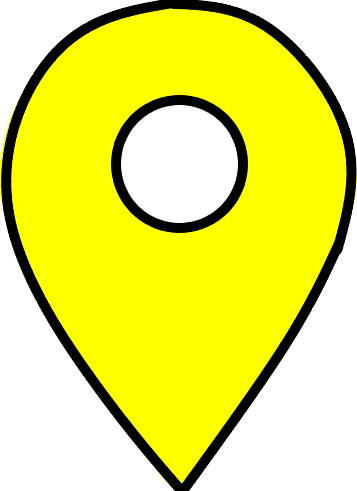
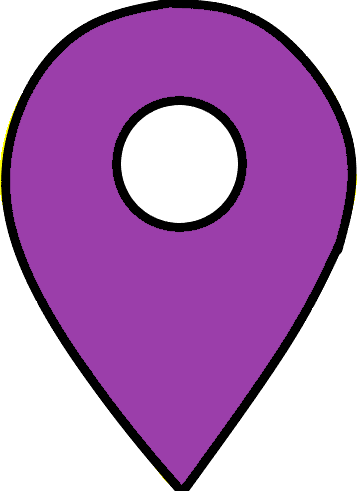
#161 Fixed pins on map

diff --git a/src/front/client/src/app/components/map-component/map-component.component.html b/src/front/client/src/app/components/map-component/map-component.component.html
@@ -34,9 +34,9 @@
     <div *ngIf="selectedLocation != null">
       <div id="location-header">
         <h3>{{selectedLocation.address}} {{selectedLocation.addressNumber}}<br>{{selectedLocation.city}}</h3>
-        <h3><span style="color: rgba(191, 65, 65, 1);" *ngIf="selectedLocation.totalPowerUsage<0">{{selectedLocation.totalPowerUsage.toFixed(3)}}kWh </span>
+        <h3><span style="color: #bf4141;" *ngIf="selectedLocation.totalPowerUsage<0">{{selectedLocation.totalPowerUsage.toFixed(3)}}kWh </span>
             <span style="color: #3e3e3e" *ngIf="selectedLocation.totalPowerUsage==0">{{selectedLocation.totalPowerUsage.toFixed(3)}}kWh </span>
-            <span style="color: rgba(69, 94, 184, 1);" *ngIf="selectedLocation.totalPowerUsage>0">{{selectedLocation.totalPowerUsage.toFixed(3)}}kWh </span> <i class="fa fa-info-circle" aria-hidden="true" [matTooltip]="'This number represents power usage for this location. Represents sum of all production and consumption for this hour. If number is below zero, that means there is more consumption of electrical energy at this location. If power usage is bigger than zero, then there is more production of electrical energy.'"></i></h3>
+            <span style="color: #455eb8;" *ngIf="selectedLocation.totalPowerUsage>0">{{selectedLocation.totalPowerUsage.toFixed(3)}}kWh </span> <i class="fa fa-info-circle" aria-hidden="true" [matTooltip]="'This number represents power usage for this location. Represents sum of all production and consumption for this hour. If number is below zero, that means there is more consumption of electrical energy at this location. If power usage is bigger than zero, then there is more production of electrical energy.'"></i></h3>
       </div>
       <div id="user-div" *ngFor="let user of users">
         <h4 style="margin-bottom: 5px">{{user.firstname}} {{user.lastname}}</h4>

diff --git a/src/front/client/src/app/components/map-component/map-component.component.ts b/src/front/client/src/app/components/map-component/map-component.component.ts
@@ -82,15 +82,15 @@ export class MapComponentComponent implements OnInit {
     for (const location of this.locations) {
       let icon = 0;
       console.log( location.totalPowerUsage );
-      if( location.totalPowerUsage < -1.5 )
+      if( location.totalPowerUsage < -1 )
         icon = 0;
-      else if( location.totalPowerUsage < -1.5 )
+      else if( location.totalPowerUsage < 0 )
         icon = 1;
-      else if( location.totalPowerUsage < -0.5 )
+      else if( location.totalPowerUsage == 0 )
         icon = 2;
-      else if( location.totalPowerUsage < 0.5)
+      else if( location.totalPowerUsage <= 1)
         icon = 3;
-      else if( location.totalPowerUsage > 1.5 )
+      else if( location.totalPowerUsage > 1 )
         icon = 4;
       console.log( icon);
       const marker = L.marker([location.latitude, location.longitude], { icon: customIcons[ icon] })
